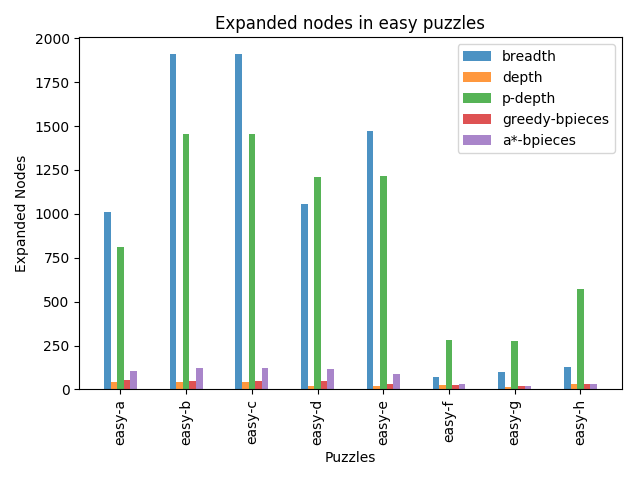
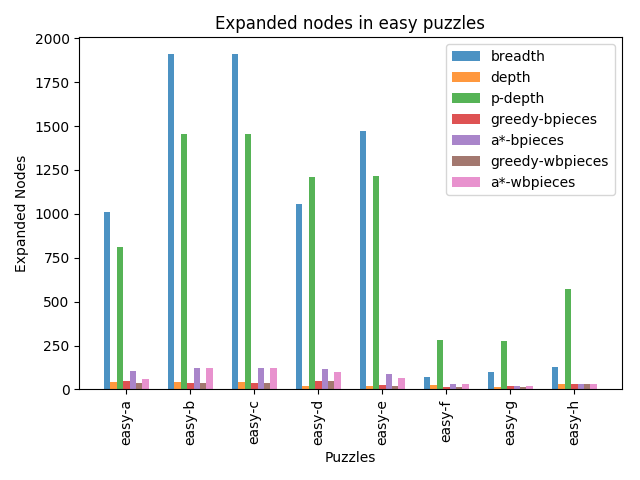
Second heuristic

diff --git a/src/main.py b/src/main.py
@@ -3,7 +3,7 @@ from solutionDisplay import drawSolution, drawSingleState
 from gameState import stateFromString
 from puzzles import easyPuzzles, mediumPuzzles, hardPuzzles, longPuzzles
 from search import breadthSearch, depthSearch, progressiveDepth, informedSearch
-from heuristics import greedyBlockingPieces, aStarBlockingPieces
+from heuristics import greedyBlockingPieces, aStarBlockingPieces, greedyWeightedBP, aStarWeightedBP
 
 
 class Menu:
@@ -80,24 +80,25 @@ def getAlgorithmChoice(puzzle, puzzleNumber):
                               "DFS",
                               "BFS",
                               "Iterative Deepening",
-                              "Greedy Search",
-                              "A* Search"
+                              "Greedy Search H1",
+                              "A* Search H1",
+                              "Greedy Search H2",
+                              "A* Search H2"
                           ],
                           [
                               partial(performAlgorithm, puzzle, depthSearch),
                               partial(performAlgorithm, puzzle, breadthSearch),
                               partial(performAlgorithm, puzzle, progressiveDepth),
-                              partial(performAlgorithm, puzzle, informedSearch, heuristicInfo="greedy"),
-                              partial(performAlgorithm, puzzle, informedSearch, heuristicInfo="aStar")
+                              partial(performAlgorithm, puzzle, informedSearch, heuristic=greedyBlockingPieces),
+                              partial(performAlgorithm, puzzle, informedSearch, heuristic=aStarBlockingPieces),
+                              partial(performAlgorithm, puzzle, informedSearch, heuristic=greedyWeightedBP),
+                              partial(performAlgorithm, puzzle, informedSearch, heuristic=aStarWeightedBP)
                           ]
                           ).display()
 
 
-def performAlgorithm(puzzle, algorithm, heuristicInfo=""):
-    if (heuristicInfo == "aStar"):
-        puzzle.ordering = aStarBlockingPieces
-    elif (heuristicInfo == "greedy"):
-        puzzle.ordering = greedyBlockingPieces
+def performAlgorithm(puzzle, algorithm, heuristic=None):
+    puzzle.ordering = heuristic
         
     res = algorithm(puzzle)
     if res is None:

diff --git a/src/heuristics.py b/src/heuristics.py
@@ -9,9 +9,40 @@ def calculateBlockingPieces(state):
             count += 1
     return count
 
+
 def greedyBlockingPieces(stateOne, stateTwo):
     return (calculateBlockingPieces(stateOne) + stateOne.getDistanceToEnd()) < (calculateBlockingPieces(stateTwo) + stateTwo.getDistanceToEnd())
+
 
 def aStarBlockingPieces(stateOne, stateTwo):
     return (len(stateOne.movements) + calculateBlockingPieces(stateOne)
             ) < (len(stateTwo.movements) + calculateBlockingPieces(stateTwo))
+
+
+def calculateWeightedBP(state):
+    piece = state.specialPiece
+    x = piece.x
+    yStart = piece.y + piece.length
+    yEnd = state.exitY
+    count = 0
+    for p in state.listOfPieces:
+        if p.inRange(x, yStart, 1, yEnd - yStart):
+            free = False
+            for extremityX, extremityY, dx, dy in piece.getExtremities():
+                if state.isEmpty(extremityX + dx, extremityY + dy):
+                    count += 1
+                    free = True
+                    break
+            
+            if not free:
+                count += 2
+    return count
+
+
+def greedyWeightedBP(stateOne, stateTwo):
+    return (calculateWeightedBP(stateOne) + stateOne.getDistanceToEnd()) < (calculateWeightedBP(stateTwo) + stateTwo.getDistanceToEnd())
+
+
+def aStarWeightedBP(stateOne, stateTwo):
+    return (len(stateOne.movements) + calculateWeightedBP(stateOne)
+            ) < (len(stateTwo.movements) + calculateWeightedBP(stateTwo))

diff --git a/src/performance.py b/src/performance.py
@@ -3,7 +3,7 @@ import matplotlib.pyplot as plt
 
 from gameState import stateFromString
 from search import breadthSearch, depthSearch, progressiveDepth, informedSearch
-from heuristics import greedyBlockingPieces, aStarBlockingPieces
+from heuristics import greedyBlockingPieces, aStarBlockingPieces, greedyWeightedBP, aStarWeightedBP
 from puzzles import easyPuzzles, mediumPuzzles, hardPuzzles, longPuzzles
 
 
@@ -95,12 +95,16 @@ allAlgorithms = [
     ('p-depth', progressiveDepth, None),
     ('greedy-bpieces', informedSearch, greedyBlockingPieces),
     ('a*-bpieces', informedSearch, aStarBlockingPieces),
+    ('greedy-wbpieces', informedSearch, greedyWeightedBP),
+    ('a*-wbpieces', informedSearch, aStarWeightedBP),
 ]
 
 fastAlgorithms = [
     ('depth', depthSearch, None),
     ('greedy-bpieces', informedSearch, greedyBlockingPieces),
     ('a*-bpieces', informedSearch, aStarBlockingPieces),
+    ('greedy-wbpieces', informedSearch, greedyWeightedBP),
+    ('a*-wbpieces', informedSearch, aStarWeightedBP),
 ]
 
 statistics = {}

diff --git a/src/gameState.py b/src/gameState.py
@@ -127,7 +127,7 @@ class GameState:
 
     def getDistanceToEnd(self):
         return (6 - self.specialPiece.length - self.specialPiece.y)
-        
+
 
 def stateFromString(
         stateStr,
